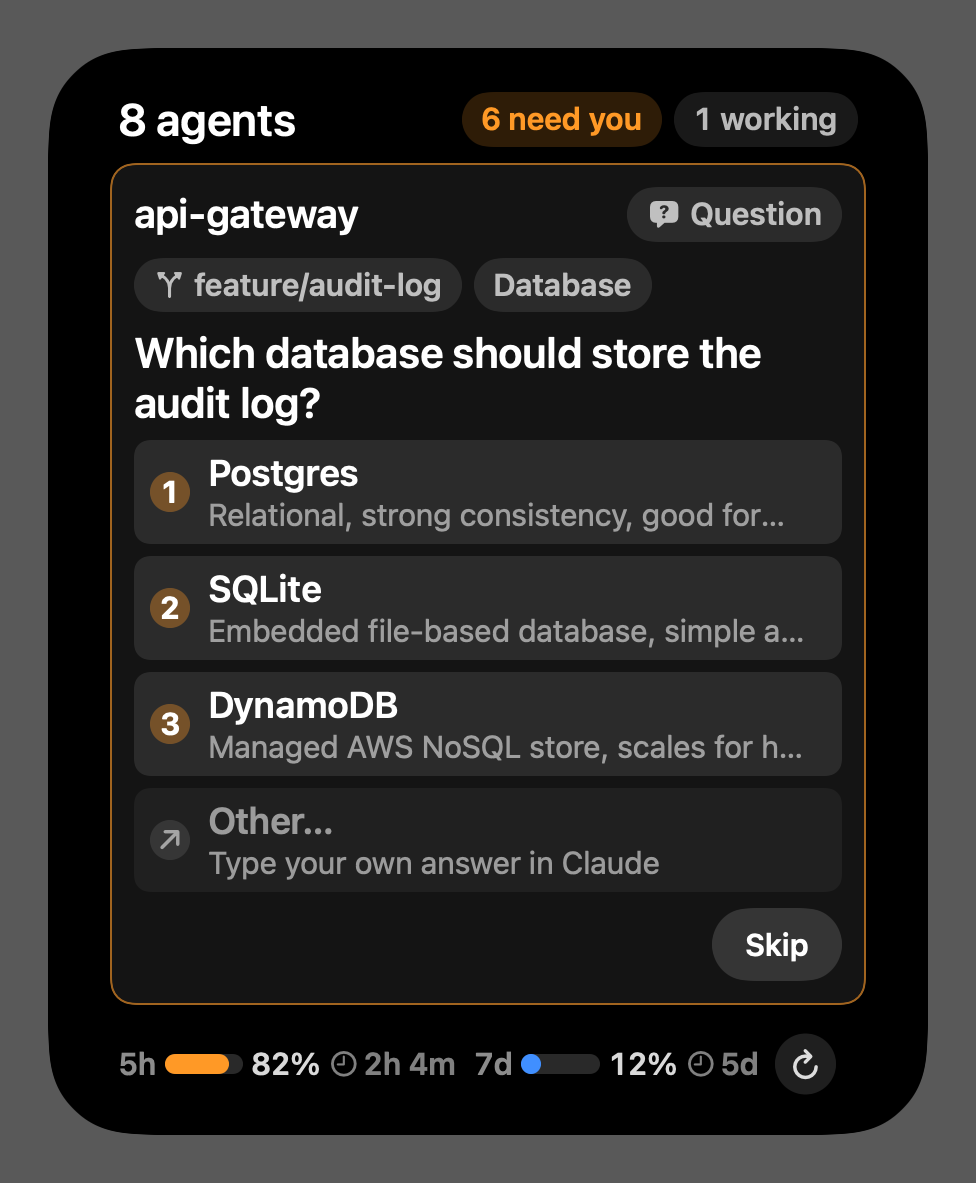
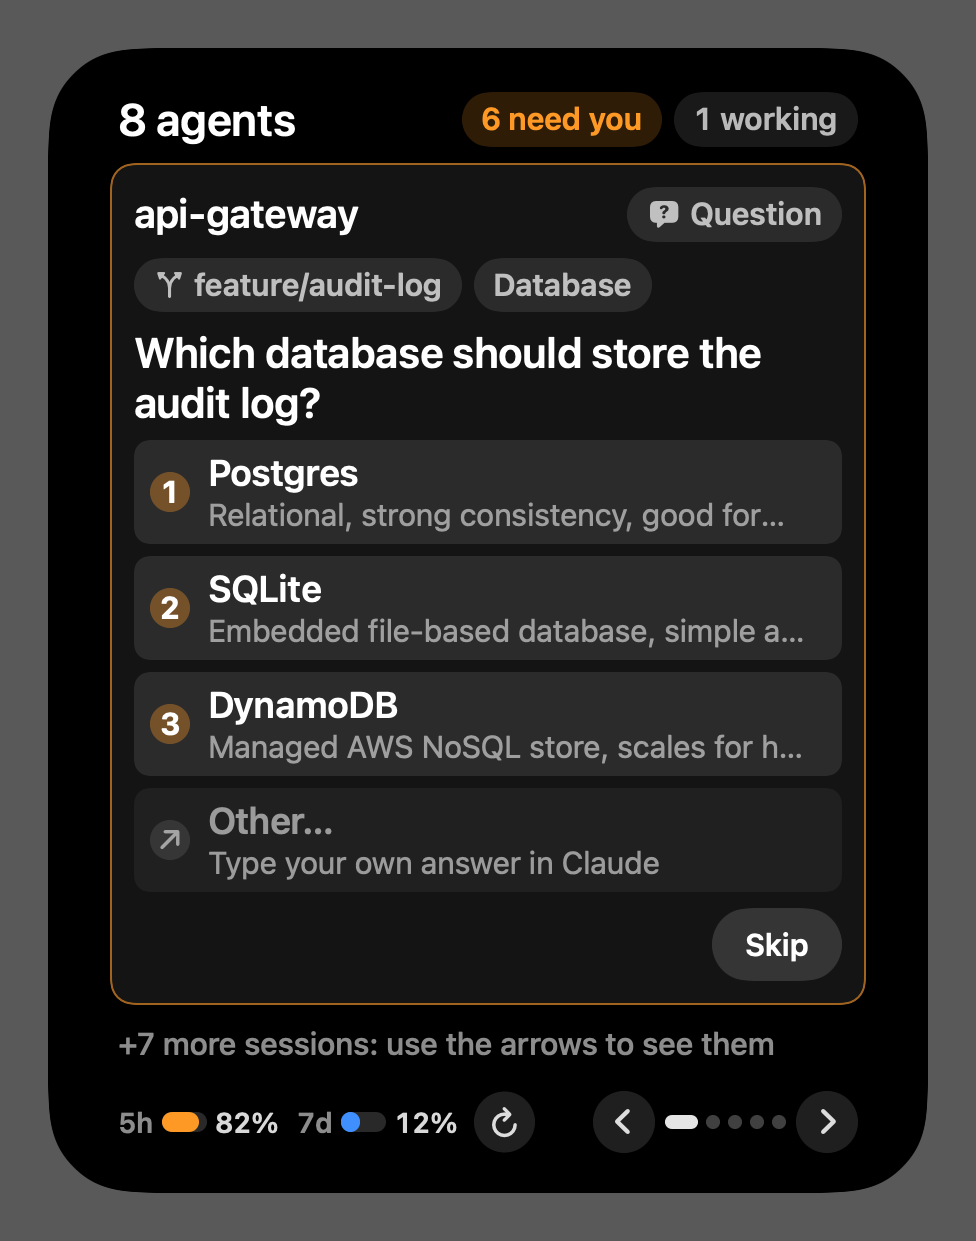
Question card: hint and pager for the sessions behind it; clearer text after Other

Changed region(s): [[0.123, 0.0609, 0.8914, 0.7608], [0.123, 0.7303, 0.8914, 0.9434]]

diff --git a/Sources/NotchbotCore/ActivityState.swift b/Sources/NotchbotCore/ActivityState.swift
@@ -3,7 +3,9 @@ import Foundation
 extension AgentSession {
     /// One-line description of what the session is doing right now.
     public var activity: String {
-        switch status {
+        // The question was let through to Claude's own prompt ("Other…"): say so rather than naming the tool.
+        if status == .working, currentTool == AskedQuestion.toolName { return "Waiting for your answer in Claude" }
+        return switch status {
         case .working:
             mainTurnEnded && runningSubagents > 0
                 ? "Waiting on \(runningSubagents) subagent\(runningSubagents == 1 ? "" : "s")" : (currentToolDetail ?? "Thinking…")
@@ -255,9 +257,14 @@ public struct NotchActivityState: Codable, Hashable, Sendable {
         let dedicated = prompt?.canChoose == true
         let rest = active.filter { $0.id != featured?.id }
         // Pages wrap around, so "next" on the last page returns to the first.
-        let pages = dedicated ? 1 : max(1, (rest.count + limit - 1) / limit)
+        // Under a dedicated question card, page 0 is the card alone and the pages after it are the other sessions.
+        let pages = dedicated ? 1 + (rest.count + maxRows - 1) / maxRows : max(1, (rest.count + limit - 1) / limit)
         let current = ((page % pages) + pages) % pages
-        let rows = rest.dropFirst(current * limit).prefix(dedicated ? 0 : limit).map { s -> Row in
+        let pageRest: ArraySlice<AgentSession> =
+            dedicated
+            ? (current == 0 ? [] : rest.dropFirst((current - 1) * maxRows).prefix(maxRows))
+            : rest.dropFirst(current * limit).prefix(limit)
+        let rows = pageRest.map { s -> Row in
             let k = kind(of: s)
             return Row(
                 id: s.id, name: clip(s.displayTitle, 32), kind: k, detail: clip(detail(of: s, kind: k), 90),
@@ -282,7 +289,8 @@ public struct NotchActivityState: Codable, Hashable, Sendable {
             }
         return NotchActivityState(
             phase: phase, headline: headline, sessions: active.count, needsYou: needs.count, working: working.count,
-            subagentsRunning: active.reduce(0) { $0 + $1.runningSubagents }, prompt: prompt, rows: focused == nil ? Array(rows) : [],
+            subagentsRunning: active.reduce(0) { $0 + $1.runningSubagents }, prompt: dedicated && current > 0 ? nil : prompt,
+            rows: focused == nil ? Array(rows) : [],
             more: max(0, rest.count - rows.count), fiveHour: quota?.fiveHour?.fraction, weekly: quota?.sevenDay?.fraction,
             pulse: 0, fiveHourReset: quota?.fiveHour?.resetsAt, weeklyReset: quota?.sevenDay?.resetsAt, page: current,
             pages: pages, reviews: active.filter(\.needsReview).count, focus: focused)

diff --git a/Tests/NotchbotCoreTests/QuestionTests.swift b/Tests/NotchbotCoreTests/QuestionTests.swift
@@ -80,9 +80,15 @@ import Testing
         #expect(p.canChoose && p.requestId == s.pending?.id.uuidString)
         #expect(p.choices.map(\.label) == ["Postgres", "SQLite", "DynamoDB"])
         #expect(p.choices.map(\.detail) == ["Relational", "", "Managed NoSQL"])
-        // A tall card: no session rows and no pager under it; the header still counts everyone.
-        #expect(st.rows.isEmpty && st.pages == 1 && st.needsYou == 2)
+        // A tall card: no session rows under it, and the others sit on the next page; the header counts everyone.
+        #expect(st.rows.isEmpty && st.pages == 2 && st.more == 1 && st.needsYou == 2)
         #expect(st.encodedSize <= NotchActivityState.byteBudget)
+        let next = NotchActivityState.make(sessions: [s, other], quota: nil, page: 1)
+        #expect(next.prompt == nil && next.rows.map(\.id) == ["s2"])
+        let back = NotchActivityState.make(sessions: [s, other], quota: nil, page: 2)  // pages wrap
+        #expect(back.prompt?.canChoose == true && back.rows.isEmpty)
+        // The island never turns away from the question by itself.
+        #expect(!IslandGuard.canAutoTurn(state: st, promptChangedAt: .distantPast))
     }
 
     @Test func longChoicesAreClippedAndStayInTheBudget() throws {
@@ -101,6 +107,16 @@ import Testing
         let multi = Self.db.replacingOccurrences(of: #""multiSelect":false"#, with: #""multiSelect":true"#)
         let m = try #require(NotchActivityState.make(sessions: [try asking(multi)], quota: nil).prompt)
         #expect(!m.canChoose && m.choices.isEmpty && !m.options.isEmpty)
+    }
+
+    @Test func aQuestionLetThroughToClaudeSaysSo() throws {
+        var t = SessionStore()
+        t.apply(ev("UserPromptSubmit") { $0.prompt = "go" })
+        t.apply(
+            ev("PreToolUse") {
+                $0.toolName = "AskUserQuestion"; $0.toolInput = try! input(Self.db)
+            })
+        #expect(try #require(t.sessions["s1"]).activity == "Waiting for your answer in Claude")
     }
 
     @Test func theBrokerDeliversTheChosenLabelOnce() throws {

diff --git a/Shared/IslandViews.swift b/Shared/IslandViews.swift
@@ -1184,6 +1184,11 @@ struct IslandBody: View {
         VStack(alignment: .leading, spacing: 10) {
             if stale { StaleNotice() }
             if let p = state.prompt { PromptPanel(p: p) }
+            // The question card has the island to itself: say what waits behind it (the pager below reaches it).
+            if let p = state.prompt, p.canChoose, state.more > 0 {
+                Text("+\(state.more) more session\(state.more == 1 ? "" : "s"): use the arrows to see \(state.more == 1 ? "it" : "them")")
+                    .sfont(size: 11, weight: .medium).foregroundStyle(Island.secondary).lineLimit(1).padding(.horizontal, 4)
+            }
             if let f = state.focus { SubagentTree(focus: f) }
             ForEach(state.rows) { SessionRow(row: $0, tree: state.subagentTree) }
             Footer(state: state).padding(.top, 4)

diff --git a/Sources/NotchbotCore/CommandRisk.swift b/Sources/NotchbotCore/CommandRisk.swift
@@ -70,7 +70,9 @@ public enum IslandGuard {
     /// Whether the island may turn to the next page by itself right now.
     public static func canAutoTurn(state: NotchActivityState, promptChangedAt: Date, now: Date = .now) -> Bool {
         guard state.pages > 1 else { return false }
-        if state.rows.contains(where: { $0.kind == .approval && $0.requestId != nil }) { return false }
+        if state.rows.contains(where: { ($0.kind == .approval || $0.kind == .question) && $0.requestId != nil }) { return false }
+        // Never turn away from a question card on its own.
+        if state.prompt?.canChoose == true { return false }
         return now.timeIntervalSince(promptChangedAt) >= promptSettle
     }
 

diff --git a/README.md b/README.md
@@ -85,8 +85,8 @@ It opens by itself when something needs you (and on a finished result, if you li
   brings its request up. A destructive command (`rm -rf`, force-push, `sudo`, ...) keeps green **Allow** / red **Deny** but asks you to tap Allow twice (**Allow**, then **Confirm**).
 - **Questions.** When Claude asks you something, the card lists its choices (numbered, with Claude's descriptions) and
   a tap answers Claude, no switching windows. **Other…** jumps to the session to type your own answer, **Skip**
-  dismisses it. While a question card is up it has the island to itself; the other sessions come back when you answer
-  or skip. Questions with several parts or "choose any" are answered in Claude (**Answer in Claude**).
+  dismisses it. While a question card is up it has the island to itself: a line says how many sessions wait behind it,
+  and the arrows page to them and back. Questions with several parts or "choose any" are answered in Claude (**Answer in Claude**).
 - **Every session at a glance.** Name, branch, elapsed time, the prompt that started the turn, the current tool,
   context usage, lines changed and token count. Click a session to jump to the app it runs in.
 - **A subagent tree.** Each session lists its subagents (what each is doing, tool-call counts, last result). A session

diff --git a/CHANGELOG.md b/CHANGELOG.md
@@ -11,9 +11,10 @@ All notable changes are documented here. The format follows [Keep a Changelog](h
 ### Added
 - **Answer Claude's questions from the island.** The question card lists the choices (numbered, with Claude's
   descriptions, titles wrap to two lines, descriptions clip to one); a tap answers through the hook (`updatedInput.answers`). **Other…** opens the
-  session. The card takes the island while it waits. Multi-part and "choose any" questions still go to Claude.
+  session. The card takes the island while it waits (page 0; the other sessions are on the pages after it, and the island never pages away from it by itself). Multi-part and "choose any" questions still go to Claude.
 
 ### Changed
+- A session whose question was let through to Claude ("Other…") reads "Waiting for your answer in Claude" instead of the tool name.
 - **Island colours**: coral = working (the waveform), orange = waiting for you, blue = ready for review, red = negative (failed,
   destructive, Deny), green = positive (Allow / Confirm). Plan-limit bars are blue and context rings coral, turning orange
   (75% / 65%) then red (90% / 85%, with a "!"). Only the "need you" count is tinted in the header.
